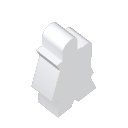
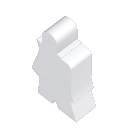
rotate ships and agents to be 'wide' in default rotation

diff --git a/tooling/generators/create-card-mat.ts b/tooling/generators/create-card-mat.ts
@@ -1,7 +1,7 @@
 #!env ts-node
 
 /**
- * Create a deck from individual card images and corresponding metadata.
+ * Create mat with card images and corresponding metadata.
  *
  * ARGS:
  * -f : config file (e.g. "prebuild/base/mat/court.config.json")
@@ -10,10 +10,10 @@
  * - cardWidth : card width, in game units.
  * - cardHeight : card height, in game units.
  * - depth : final obj depth, in game units.
+ * - gap : padding between cards and to mat edge, in game units.
  *
  * - inputDir : path relative to prebuild.
  * - slots : array of [img, label, tags].
- * - gap : padding between cards and to mat edge, in game units.
  * - cols : if > 0, wrap after N columns.
  *
  * - metadata : string
@@ -148,13 +148,13 @@ async function main() {
     }
     for (const slot of config.slots) {
         if (typeof slot.img !== "string") {
-            throw new Error("config slot error");
+            throw new Error("config slot error (img)");
         }
         if (typeof slot.label !== "string") {
-            throw new Error("config slot error");
+            throw new Error("config slot error (label)");
         }
         if (!Array.isArray(slot.tags)) {
-            throw new Error("config slot error");
+            throw new Error("config slot error (tags)");
         }
     }
     for (const tag of config.tags) {
@@ -205,11 +205,11 @@ async function main() {
 
     // Create backing image.  We could be clever with shared UVs, but keep
     // things simple and create a single image.
-    const cols =
-        config.cols > 0
-            ? config.slots.length % config.cols
-            : config.slots.length;
+    const cols = config.cols > 0 ? config.cols : config.slots.length;
     const rows = Math.ceil(config.slots.length / cols);
+    console.log(
+        `layout ${cols}x${rows} (config #slots=${config.slots.length} cols=${config.cols})`
+    );
 
     // Game object size (world space).
     const world = {
@@ -242,6 +242,8 @@ async function main() {
 
         const left = gapPx + col * (gapPx + cardPixels.w) + bleed.w;
         const top = gapPx + row * (gapPx + cardPixels.h) + bleed.h;
+
+        console.log(`[${index} @ ${col}x${row}]`);
 
         const input = await slot.img
             .grayscale(true)
@@ -282,9 +284,8 @@ async function main() {
                 config.cardWidth * (col + 0.5) -
                 world.w / 2,
             X:
-                config.gap * (row + 1) +
-                config.cardHeight * (row + 0.5) -
-                world.h / 2,
+                world.h / 2 -
+                (config.gap * (row + 1) + config.cardHeight * (row + 0.5)),
             Tags: slot.tags,
 
             // Other snap point fields.
